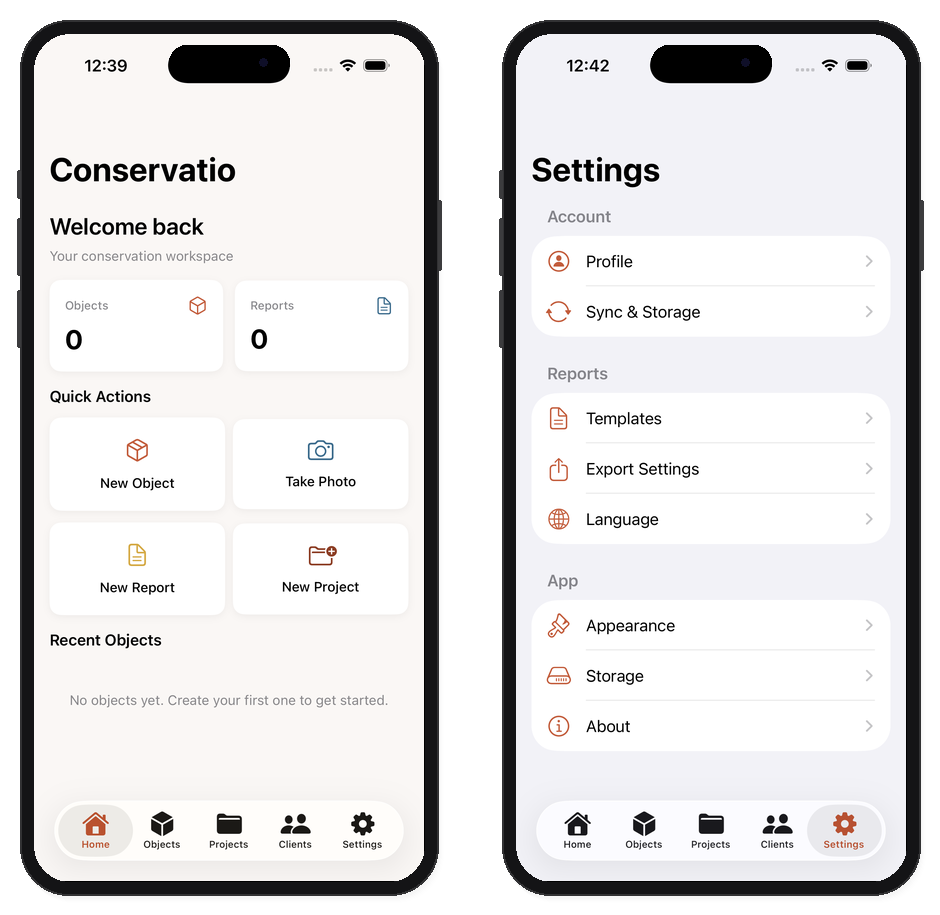
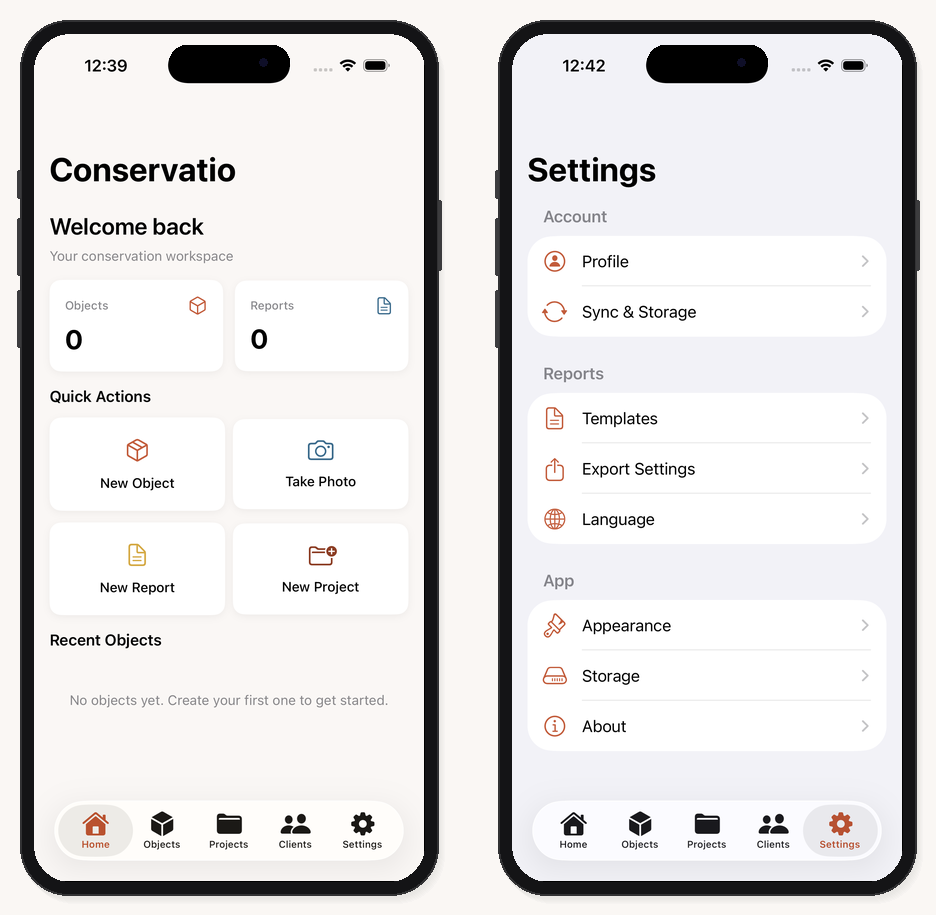
Add deep link support, debug navigation, and animated flow GIF
Deep links:
- URL scheme (conservatio://) with onOpenURL handler
- UserDefaults-based debug tab selection for automated screenshots
- Launch argument support (--no-splash, --tab-*)
- Info.plist with CFBundleURLTypes

Flow recording:
- Animated GIF showing Dashboard > Settings transition in iPhone frame
- Static side-by-side flow image
- All screenshots captured via Kujto simulator.sh + simctl

diff --git a/iosApp/Conservatio/ContentView.swift b/iosApp/Conservatio/ContentView.swift
@@ -1,9 +1,12 @@
 import SwiftUI
 
 struct ContentView: View {
+    var initialTab: Tab?
     @State private var selectedTab: Tab = .dashboard
     @State private var objectStore = ObjectStore()
     @State private var reportStore = ReportStore()
+    @State private var showCreateObject = false
+    @State private var showCreateReport = false
 
     var body: some View {
         TabView(selection: $selectedTab) {
@@ -38,6 +41,42 @@ struct ContentView: View {
                 .tag(Tab.settings)
         }
         .tint(Color.conservatioPrimary)
+        .onAppear {
+            if let tab = initialTab {
+                selectedTab = tab
+            }
+        }
+        .onOpenURL { url in
+            handleDeepLink(url)
+        }
+        .sheet(isPresented: $showCreateObject) {
+            CreateObjectView(objectStore: objectStore)
+        }
+    }
+
+    private func handleDeepLink(_ url: URL) {
+        guard url.scheme == "conservatio" else { return }
+        let path = url.host ?? ""
+
+        switch path {
+        case "dashboard", "home":
+            selectedTab = .dashboard
+        case "objects":
+            selectedTab = .objects
+        case "projects":
+            selectedTab = .projects
+        case "clients":
+            selectedTab = .clients
+        case "settings":
+            selectedTab = .settings
+        case "new-object":
+            selectedTab = .objects
+            DispatchQueue.main.asyncAfter(deadline: .now() + 0.3) {
+                showCreateObject = true
+            }
+        default:
+            break
+        }
     }
 }
 

diff --git a/iosApp/Conservatio/ConservatioApp.swift b/iosApp/Conservatio/ConservatioApp.swift
@@ -3,11 +3,12 @@ import SwiftUI
 @main
 struct ConservatioApp: App {
     @State private var showSplash = true
+    @State private var initialTab: Tab? = nil
 
     var body: some Scene {
         WindowGroup {
             ZStack {
-                ContentView()
+                ContentView(initialTab: initialTab)
                     .opacity(showSplash ? 0 : 1)
 
                 if showSplash {
@@ -17,7 +18,21 @@ struct ConservatioApp: App {
             }
             .animation(.easeInOut(duration: 0.6), value: showSplash)
             .onAppear {
-                DispatchQueue.main.asyncAfter(deadline: .now() + 1.5) {
+                // Check UserDefaults for debug navigation (set via simctl defaults write)
+                let defaults = UserDefaults.standard
+                if let tab = defaults.string(forKey: "debug_tab") {
+                    switch tab {
+                    case "objects": initialTab = .objects
+                    case "projects": initialTab = .projects
+                    case "clients": initialTab = .clients
+                    case "settings": initialTab = .settings
+                    default: break
+                    }
+                    defaults.removeObject(forKey: "debug_tab")
+                }
+
+                let splashDelay: Double = defaults.bool(forKey: "debug_no_splash") ? 0 : 1.5
+                DispatchQueue.main.asyncAfter(deadline: .now() + splashDelay) {
                     showSplash = false
                 }
             }

diff --git a/README.md b/README.md
@@ -29,11 +29,15 @@ Conservatio helps conservators, small museums, galleries, churches, and archaeol
 ## Screenshots
 
 <p align="center">
-  <img src="docs/screenshots/ios-flow-combined.png" alt="Conservatio iOS App Flow: Dashboard, Objects, Create Object, Settings" width="900">
+  <img src="docs/screenshots/conservatio-flow.gif" alt="Conservatio iOS App Flow" width="300">
 </p>
 
 <p align="center">
-  <em>iOS (iPhone 17): Dashboard and Settings</em>
+  <em>iOS (iPhone 17, iOS 26.1): Dashboard and Settings flow</em>
+</p>
+
+<p align="center">
+  <img src="docs/screenshots/ios-flow-combined.png" alt="Conservatio iOS screens side by side" width="600">
 </p>
 
 ## Architecture